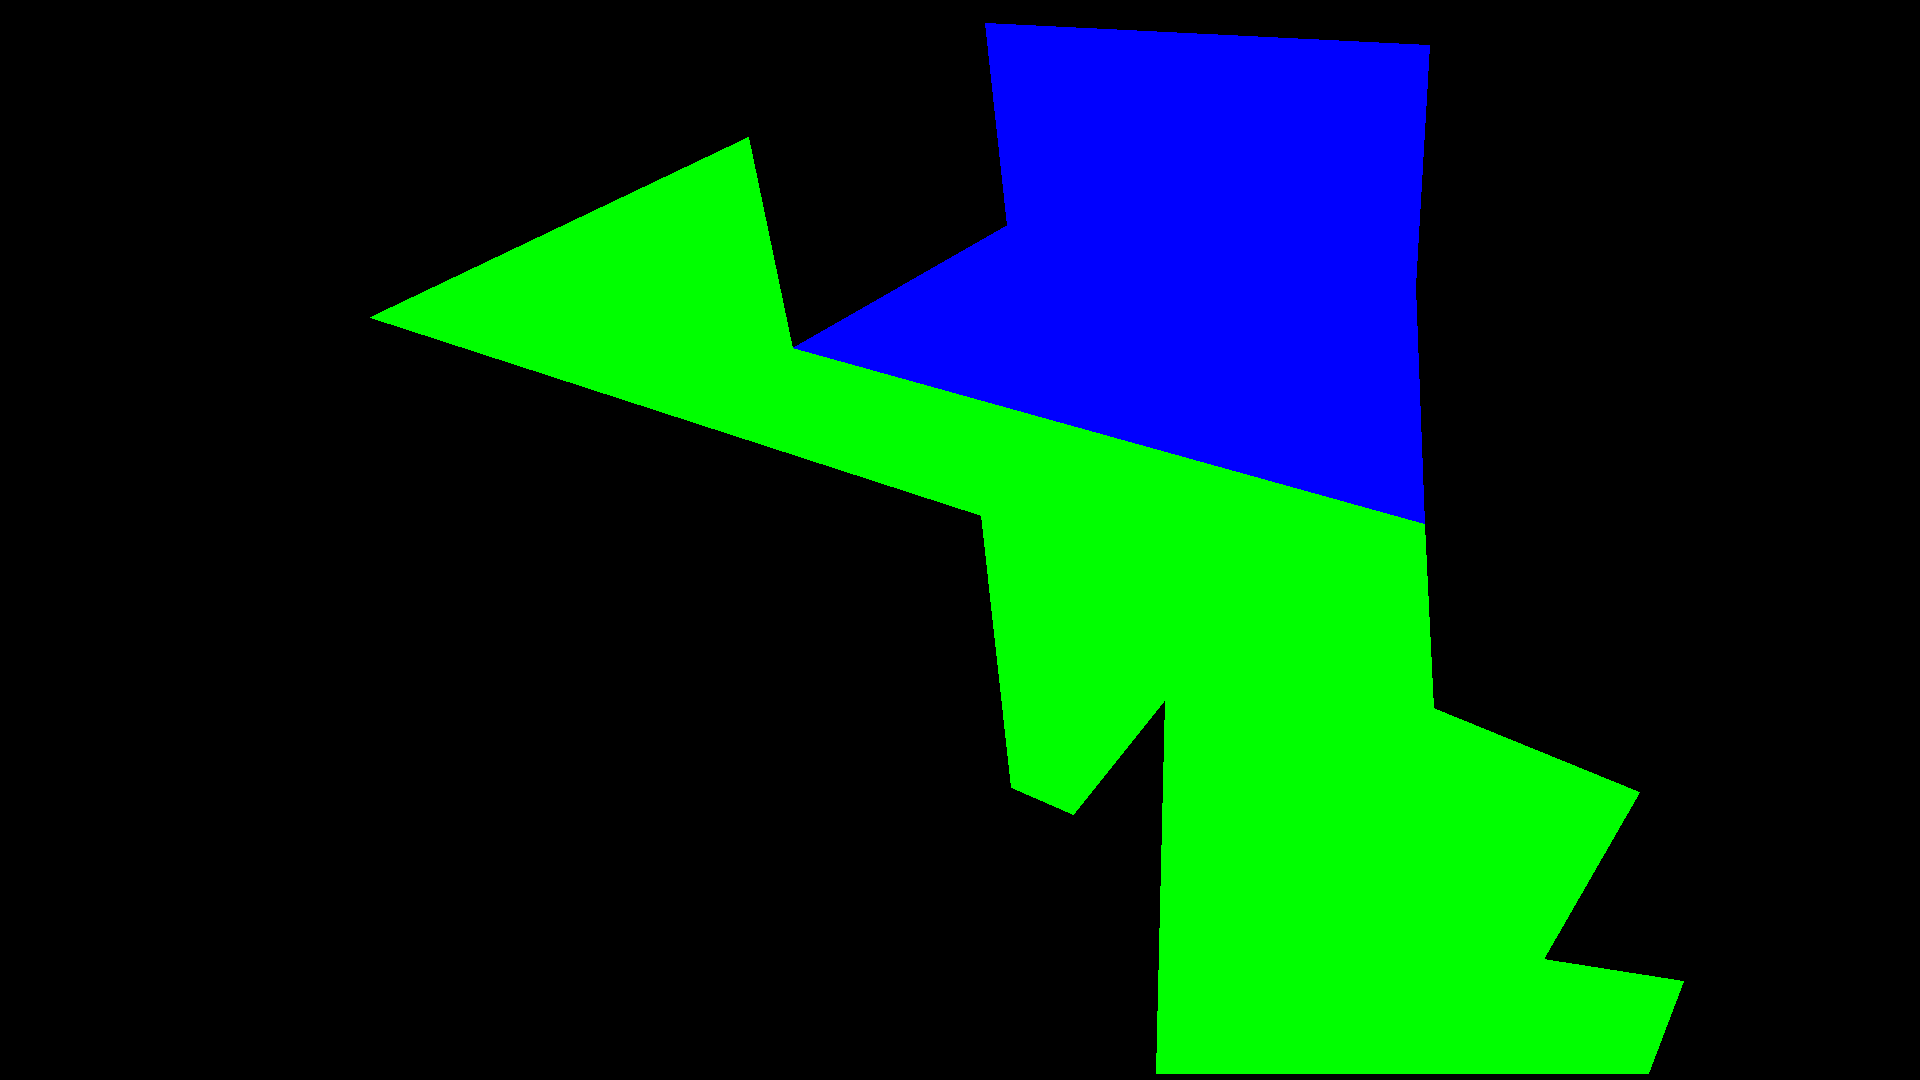
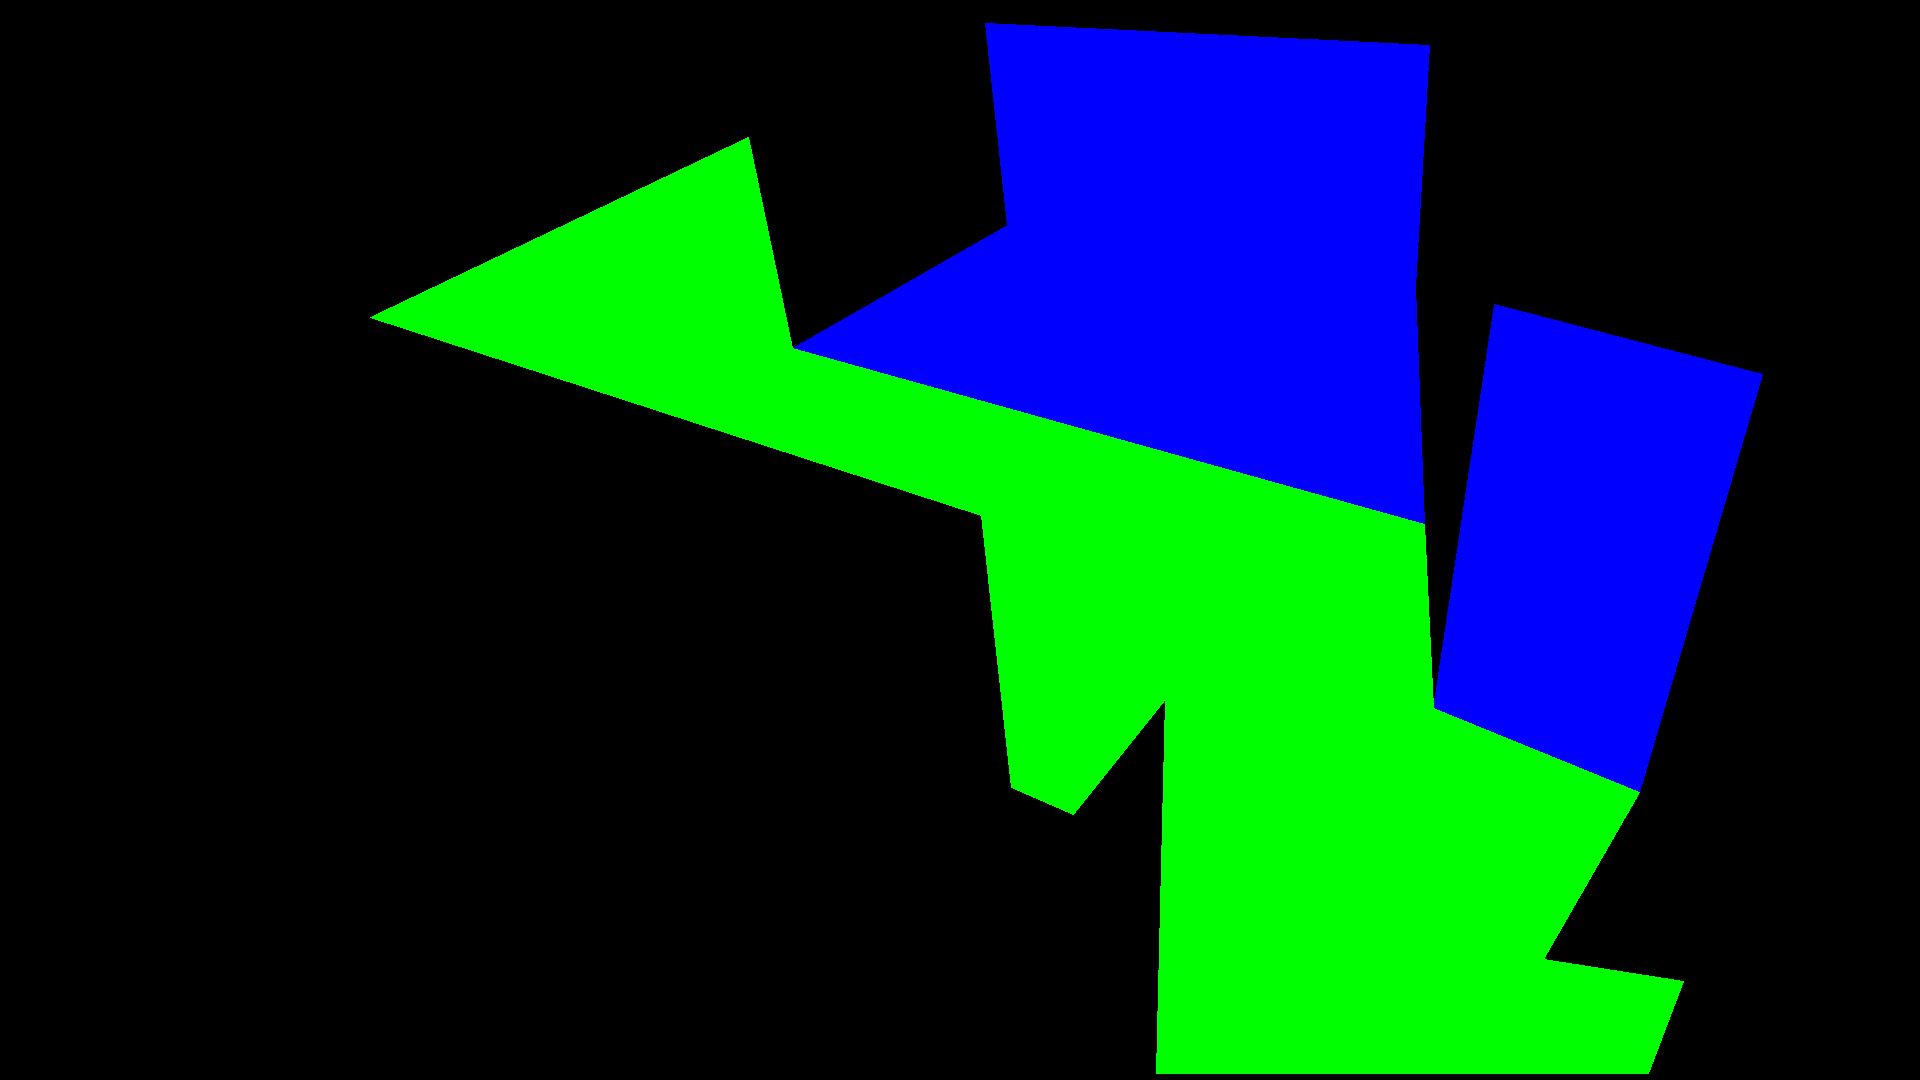
add repetition room

Changed region(s): [[0.75, 0.275, 0.9375, 0.7333]]

diff --git a/preprocess/label.py b/preprocess/label.py
@@ -68,6 +68,7 @@ def create_room_mask(image_size, room_data, json_scale=1.0):
     # Define colors in BGR format (OpenCV uses BGR)
     colors = {
         'CSU Miliue': (255, 0, 0),      # Blue
+        'CSU Miliue2': (255, 0, 0),      # Blue
         'Nursing Station': (0, 255, 0),   # Green
         'Quiet Room': (0, 0, 255),      # Red
         'Sally Port / Entrance': (255, 255, 0)  # Light Blue (Cyan)
@@ -93,7 +94,7 @@ def create_room_mask(image_size, room_data, json_scale=1.0):
     return mask
 
 def main():
-    name = 'loc04'
+    name = 'loc03'
     image_path = f'first_frame_img/{name}.png'
     
     # Create complete room data

diff --git a/preprocess/room_seg.py b/preprocess/room_seg.py
@@ -362,7 +362,7 @@ class RoomSegmenter:
             raise
 
 if __name__ == "__main__":
-    name = "loc02"
+    name = "loc03"
     segmenter = RoomSegmenter(
         image_path=f"first_frame_img/{name}.png",output_name=f"{name}.json"
     )   
